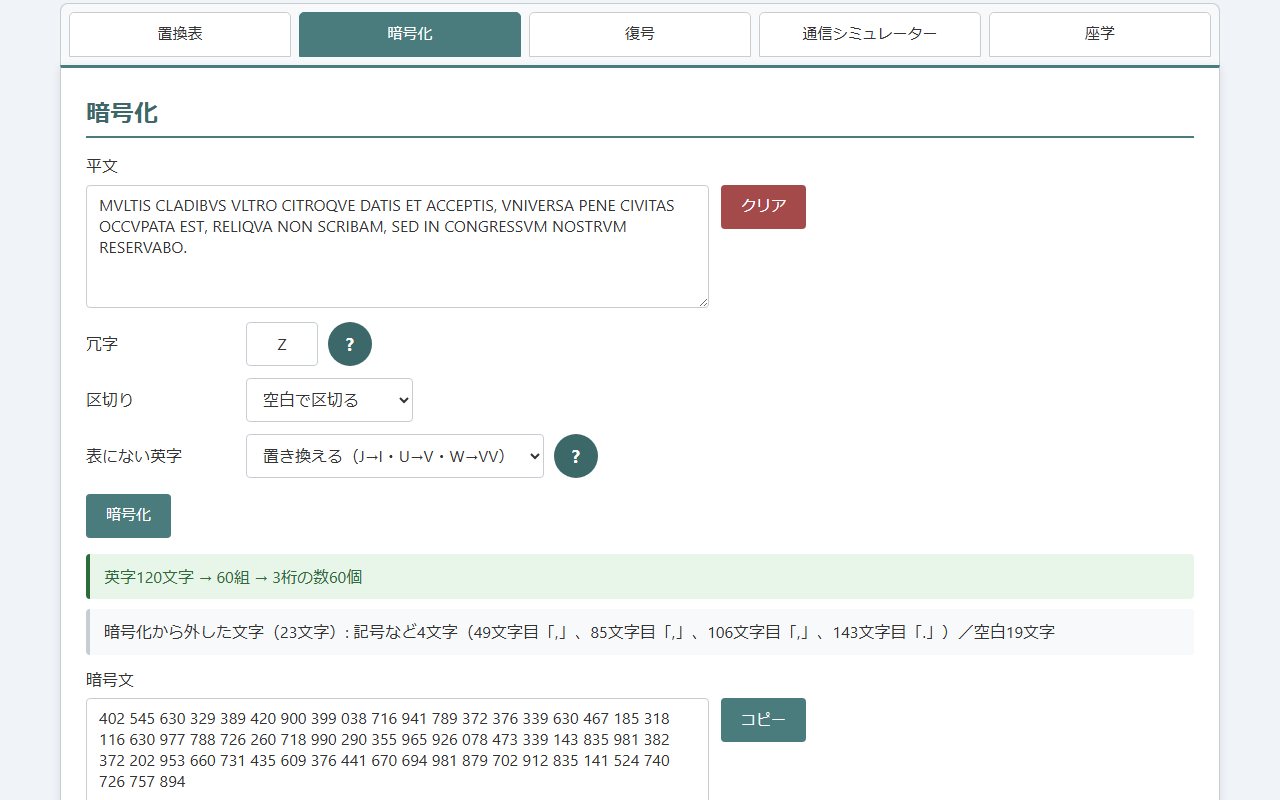
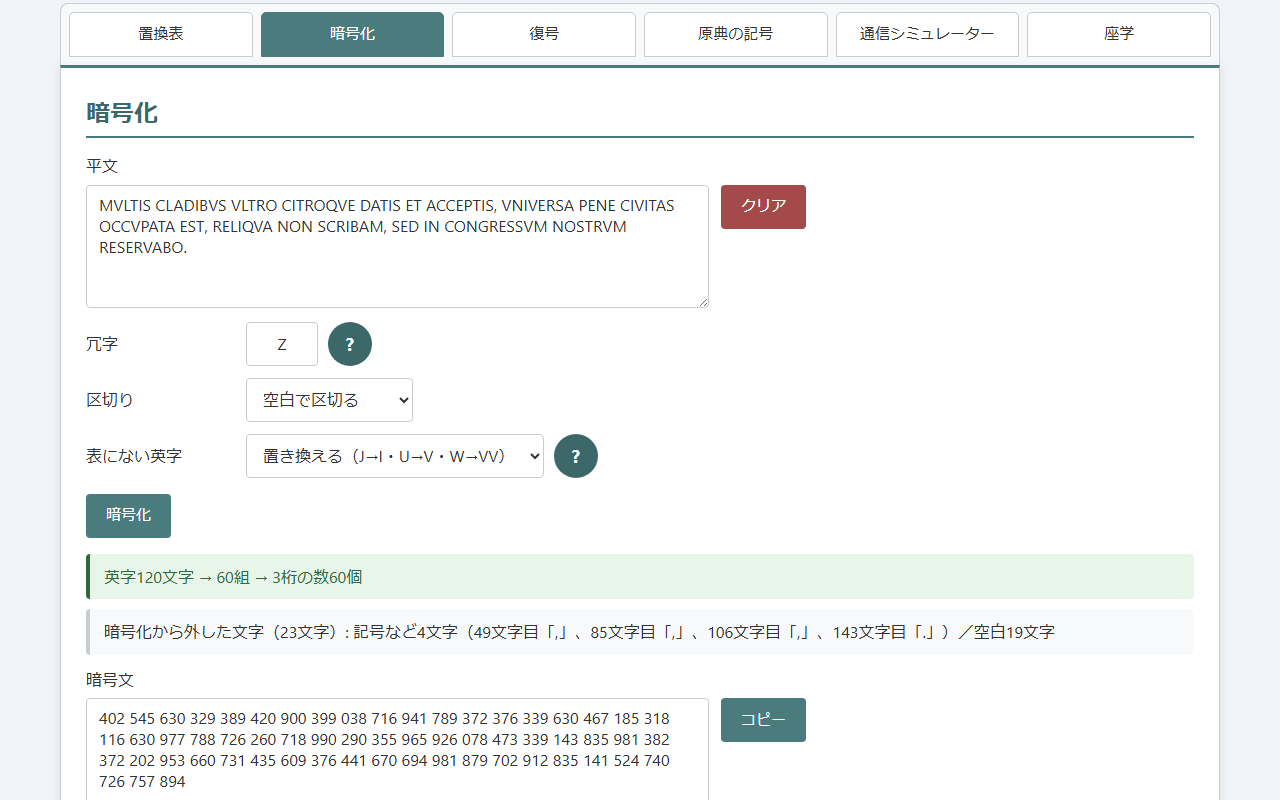
段階3: 原典の記号をREADME・座学に書き、スクリーンショットを2枚足す
- p.91の暗号文と原典の表で引いた記号の列が60個とも同じ順に並ぶこと、逆に引くと食い違うことを記載
- 記号の切り出し方（格子の線の除去・帯ごとの測り直し・目での検品と8マスの個別調整）
- 読んだ英字と選んだ記号を表の上に出す（押した結果が表に隠れない）

diff --git a/index.html b/index.html
@@ -184,7 +184,8 @@
 
       <h3>記号を選んで読む</h3>
       <p>原典と同じ並びの表です。暗号文の記号と同じものを順に押すと、英字に戻します。原典は、探しやすいように似た記号を同じ列に集めています。表の中は矢印キーでも動けます。</p>
-      <div id="symPickerWrap" class="matrix-wrap sym-picker-wrap"></div>
+      <p id="symDecoded" class="lookup-result" aria-live="polite"></p>
+      <div id="symSelected" class="sym-output sym-small"></div>
       <div class="input-group checkbox-group">
         <input id="symStrip" type="checkbox">
         <label for="symStrip">末尾の冗字を外す</label>
@@ -193,8 +194,7 @@
         <button type="button" id="btnSymUndo" class="secondary">1つ戻す</button>
         <button type="button" id="btnSymReset" class="secondary">選んだ記号を消す</button>
       </div>
-      <p id="symDecoded" class="lookup-result" aria-live="polite"></p>
-      <div id="symSelected" class="sym-output sym-small"></div>
+      <div id="symPickerWrap" class="matrix-wrap sym-picker-wrap"></div>
 
       <h3>原典の暗号文を読んでみる</h3>
       <figure class="docs-figure wide">
@@ -255,6 +255,7 @@
       <p>受け取った側は、曲尺（L字の定規）の角を記号に当てて上と横の文字を読みます。原典は、探しやすいように似た記号を同じ並びに置いたと述べています。</p>
       <p>暗号史家のデイヴィッド・カーン（David Kahn）は『The Codebreakers』で、これを暗号学で最初の二文字式暗号と書いています。文字どうしを置き換える二文字式としては、19世紀のプレイフェア暗号が最初です。</p>
       <p>本ツールの表も原典と同じ向きで、上の見出しが1文字目、左の見出しが2文字目です。記号の代わりに、各マスへ重複のない3桁の数を入れます。</p>
+      <p>「原典の記号」タブでは、この表から切り出した記号そのもので暗号化できます。p.91に刷られたポルタの例文の暗号文も、この表で読むと例文に戻ります。</p>
 
       <h3>20文字のアルファベット</h3>
       <p>原典の表の文字はA B C D E F G H I L M N O P Q R S T V Zの20文字で、J・K・U・W・X・Yはありません。原典の例文もUをVで書いています（VNIVERSA、CIVITAS）。本ツールの20×20の表では、J→I、U→V、W→VVに置き換え、K・X・Yは外して一覧に示します（「外す」を選ぶとJ・U・Wも外します）。</p>

diff --git a/test/readme.test.js b/test/readme.test.js
@@ -96,7 +96,7 @@ test('上限の記述は計算部の値と一致する', () => {
 
 test('README の画像はすべて実在し、assets の PNG は README から参照されているものだけ', () => {
   const refs = [...readme.matchAll(/!\[[^\]]*\]\((assets\/[^)]+\.png)\)/g)].map((m) => m[1]);
-  assert.equal(refs.length, 4);
+  assert.equal(refs.length, 6);
   assert.ok(readme.includes('](assets/porta1563_table.jpg)'));
   assert.ok(fs.existsSync(new URL('../assets/porta1563_table.jpg', import.meta.url)));
   for (const r of refs) assert.ok(fs.existsSync(new URL(`../${r}`, import.meta.url)), r);

diff --git a/README.md b/README.md
@@ -72,6 +72,12 @@ hub: true
 >
 >![座学タブの表の作り方と引き方](assets/screenshot4.png)
 >*座学タブ。原典にもとづく表の作り方・引き方、20文字のアルファベット、ポルタ自身の例文*
+>
+>![原典の記号タブでポルタの例文を記号にしたところ](assets/screenshot5.png)
+>*原典の記号タブ。1563年初版の表から切り出した記号で、ポルタの例文を60個の記号にする*
+>
+>![原典と同じ並びの表から記号を選んで読むところ](assets/screenshot6.png)
+>*原典と同じ並びの表（上＝1文字目、右＝2文字目）から記号を押して英字に戻す*
 
 ---
 
@@ -101,6 +107,12 @@ hub: true
 - 表にない数は「??」で示し、予約コードは区別して知らせる
 - 末尾の冗字を外すかどうかを選べる
 
+### 🖋 原典の記号
+
+- 1563年初版p.90の表から切り出した記号400個で、平文を記号の列にする（組の文字の表示とPNG保存）
+- 原典と同じ並びの表から記号を押して英字に戻す（矢印キーでも動く）
+- p.91に刷られたポルタの例文の暗号文を、表で読む練習と答え
+
 ### 📡 通信シミュレーター
 
 - 送る側の暗号化 → 数字の列の送信 → 受ける側の復号を、いまの表で通しで行う
@@ -123,6 +135,7 @@ hub: true
 4. 相手は「復号」タブで暗号文を入れ、「復号」を押す
 
 通しの流れは「通信シミュレーター」タブで一度に確かめられます。
+原典の記号で試すときは「原典の記号」タブを使います（表は原典の20×20に固定）。
 
 ---
 
@@ -154,6 +167,14 @@ RELIQVA NON SCRIBAM, SED IN CONGRESSVM NOSTRVM RESERVABO.
 
 試訳は「双方で多くの損害を与え、また受けたのち、町はほぼ全体が占領された。残りは書かず、会ったときのために取っておく」です。
 英字は120個（60組）で、すべて20文字の表にあります。
+
+p.91には、この例文を表の記号にした暗号文が刷られています。
+「1文字目＝上の見出し、2文字目＝横の見出し」で表から引いた記号の列と1つずつ見比べると、60個すべてが同じ順に並びます（行ごとの数は15・12・15・13・5）。
+逆に引いた表（1文字目を横の見出し）では、最初の記号から食い違います。
+本ツールの「原典の記号」タブで、この照合を確かめられます。
+
+>![p.91に刷られた例文の暗号文](assets/porta1563_example.jpg)
+>*1563年初版p.91の例文の暗号文（記号60個、5行。リヨン市立図書館所蔵本のスキャン、Public Domain Mark 1.0）*
 
 ### 同じ記号は本当に「まれ」か
 
@@ -199,6 +220,14 @@ RELIQVA NON SCRIBAM, SED IN CONGRESSVM NOSTRVM RESERVABO.
 - シードなしは暗号用の乱数（`crypto.getRandomValues`）
 - 鍵のファイルはJSONで、`matrix[1文字目][2文字目]`に3桁の数を持つ。書き出す形は`format`・`version`（2）・`size`・`alphabet`・`order`・`reserved`・`matrix`で、`format`と`version`のない形（`alphabet`・`reserved`・`matrix`だけ）も同じ意味で読み込む
 
+### 原典の記号の切り出し
+
+- 元の画像は1563年初版p.90のスキャン（リヨン市立図書館所蔵本、Internet Archive、Public Domain Mark 1.0、1771×2500px）
+- 表を貫く長い直線（格子の線）を形態学的な処理で見つけて消し、手彫りで傾いた線は行・列の帯ごとに位置を測り直して、1マスずつ切り出した
+- 大津の方法で白黒にし、縁に残った線の切れ端と小さな点のごみを消し、1マス52×64pxにそろえて8段階の濃淡のPNG（20×20、1040×1280px）にした
+- 400個すべてを原本と並べて目で確かめ、線の切れ端が記号につながった6マスは辺を削り、線の傾きで範囲がずれた2マスは原本で測った範囲で切り出した。切り出しのスクリプトと原本はリポジトリーの外で管理している
+- 画像の内容は`test/symbols.test.js`がSHA-256で固定している
+
 ### 表の強さ
 
 乱数で作る20×20の表は、998個の数から400個を並べるので約2の3850乗通りあります。
@@ -228,9 +257,12 @@ RELIQVA NON SCRIBAM, SED IN CONGRESSVM NOSTRVM RESERVABO.
 - 数学（組合せ）の授業: 400マスの並べ方の数と、シードから作れる表の数を比べ、「鍵の強さは何で決まるか」を考える
 - 暗号解読の入門: 長い英文を暗号化し、同じ数が何度も出ることから二文字の頻度分析の考え方をつかむ
 
+- 書誌学・古文書の入門: 16世紀の印刷本に刷られた暗号文を、同じ本の表で実際に読み解き、版面の図版を一次資料として扱う経験をする
+
 ### 作る・遊ぶ
 
 - 謎解き・脱出ゲームの制作: 表を印刷して小道具にし、3桁の数の暗号文を解かせる。シードを決めておけば同じ表を何度でも作り直せる
+- 記号の暗号の小道具: 原典の記号の列をPNGで保存し、カードや謎解きの台紙に印刷する（表のページも一緒に渡せば、手で読める）
 - 宝探し・オリエンテーリング: 数字だけの暗号文は書き写しやすく、看板やカードに載せやすい
 - 小説・ゲームの小道具: 作中の古い暗号書に出てくる暗号文を、筋の通った手順で作る
 - 家族や友人とのやりとり遊び: 鍵のファイルを共有して、短いメモを暗号にして渡し合う（安全ではない前提で）
@@ -308,7 +340,9 @@ porta-cipherlab/
 │   ├── screenshot.png         # 置換表タブ（26×26の表でHEを引いたところ）
 │   ├── screenshot2.png        # 暗号化タブ（20×20の表でポルタの例文を暗号化）
 │   ├── screenshot3.png        # 通信シミュレーター（同じ数が2回出る）
-│   └── screenshot4.png        # 座学タブ（表の作り方・引き方とポルタの例文）
+│   ├── screenshot4.png        # 座学タブ（表の作り方・引き方とポルタの例文）
+│   ├── screenshot5.png        # 原典の記号タブ（ポルタの例文を記号にする）
+│   └── screenshot6.png        # 原典の記号タブ（表から記号を選んで読む）
 ├── js/                        # 画面から読む通常のスクリプト
 │   ├── messages.js            # 画面に出す文言の辞書
 │   └── porta-core.js          # 計算部（正規化・暗号化・復号・鍵の生成と検証）
@@ -325,7 +359,7 @@ porta-cipherlab/
 ├── .nojekyll                  # GitHub PagesでJekyllを使わない
 ├── AGENTS.md                  # コーディングエージェント向けの作業ルール
 ├── CLAUDE.md                  # Claude Code向けのプロジェクト情報
-├── index.html                 # 画面（5つのタブ）
+├── index.html                 # 画面（6つのタブ）
 ├── LICENSE                    # MITライセンス
 ├── package.json               # npm testの定義（依存なし）
 ├── README.md                  # 本ファイル
